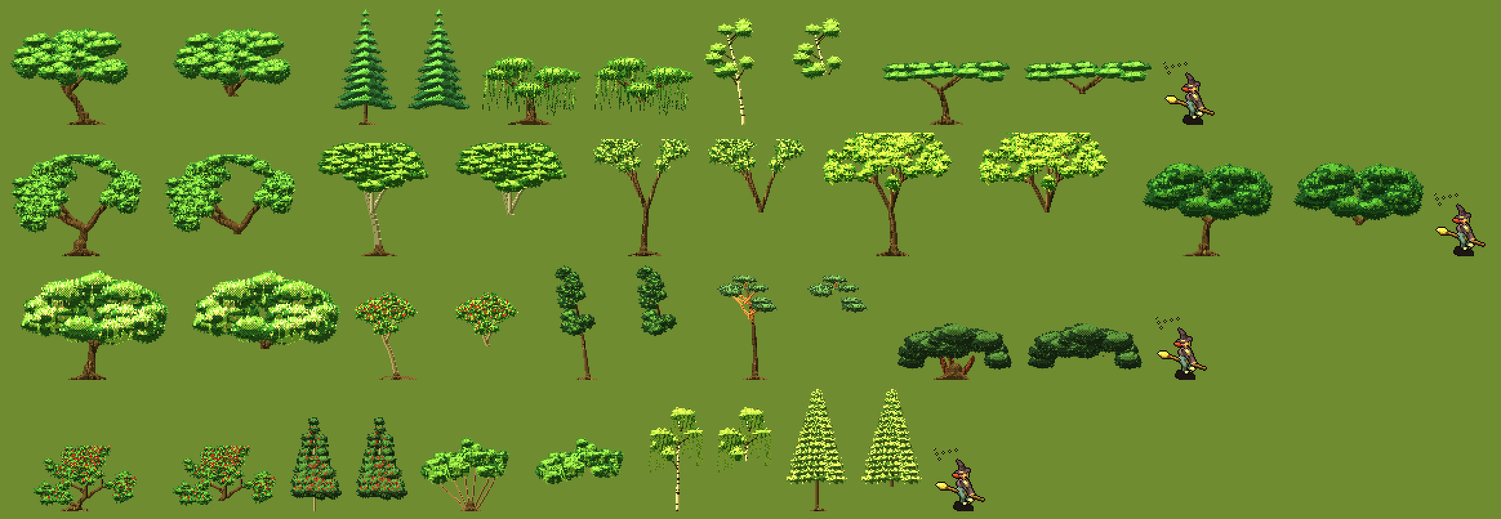
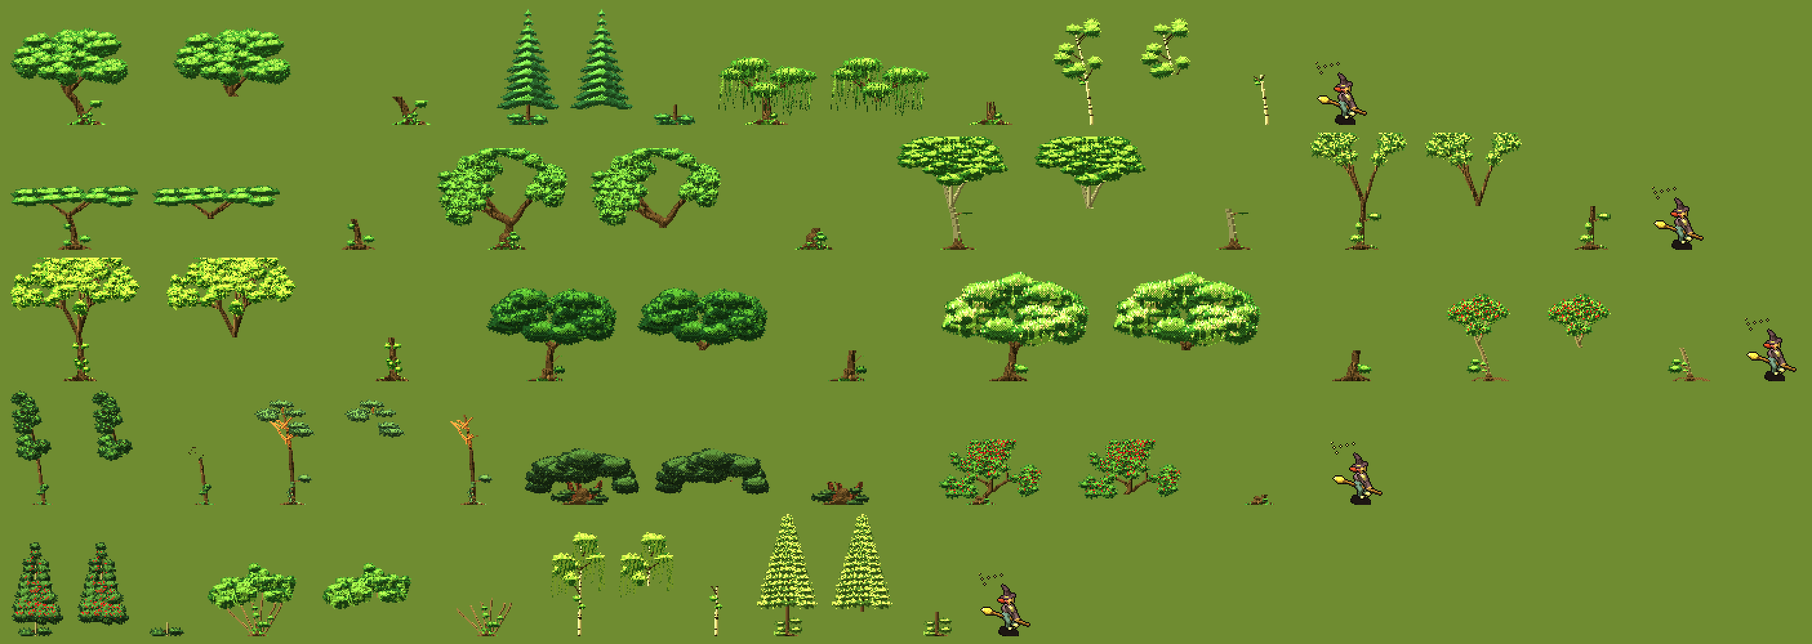
Trees: life below the crown (ivy, moss, sprigs, low boughs, skirts)
Every species' bottom half now carries some foliage of its own, so ground
mode isn't a forest of bare poles: ivy up the trunk, moss at its foot,
epicormic sprigs (oak, lime), low side boughs with a leaf clump, and a skirt
of drooping lower boughs on yew, holly and the conifers. Saplings are
leafier; dead trees keep only ivy and moss. It is drawn after the tree, only
on empty or wooden pixels a margin below the crown line, so the top half is
exactly as before; splitTree puts it in the bottom half.

The art check verifies every species' bottom half has leaves, saplings
more, the canopy unchanged, and no wall of leaves at the witch's eye height.
The species sheet adds each bottom half alone; the lab's Trees panel adds a
row of trunks as ground mode shows them.

Claude-Session: https://claude.ai/code/session_01FVGKHvaavDn5xGsWtRTBaz

diff --git a/tools/art-lab/dist/witch-art-lab.html b/tools/art-lab/dist/witch-art-lab.html
@@ -957,6 +957,72 @@ function larchTree(r, st, s) {
   return trim(sp, bx, H * .8);
 }
 
+// Life on the trunk, below the crown: what the bottom half (ground mode) carries besides bare wood. Ivy
+// climbing the trunk, moss at its foot, epicormic sprigs (little leaf clumps hugging the bark), low side
+// boughs with a leaf clump, and a skirt of drooping lower boughs (yew, holly, the conifers). It is drawn
+// after the tree, only onto empty or wooden pixels at least a margin below the crown line, so the canopy
+// (the top half) is untouched; the pixels it adds are listed in sp.low, and splitTree puts them in the
+// bottom half. Saplings and young trees are leafier, almost to the ground; dead trees keep only ivy and moss.
+const LOW_MARGIN = 6;
+function lowLife(t, r, st, s, P) {
+  const { sp, crownY } = t, W = sp.w, H = sp.h, low = sp.low || (sp.low = new Uint8Array(W * H));
+  const y0 = Math.ceil(crownY + LOW_MARGIN * s); if (y0 >= H - 2) return t;
+  const rel = s / (st.treeSize * 2 / (st.pixel || 2)), youth = Math.max(0, Math.min(1, (1 - rel) / .5)), bare = !!st.treeBare;
+  const runs = y => { const out = []; let a = -1; for (let x = 0; x <= W; x++) { const w = x < W && WOOD.has(sp.m[y * W + x]); if (w && a < 0) a = x; if (!w && a >= 0) { out.push([a, x - 1]); a = -1; } } return out; };
+  const near = (rs, x) => rs.reduce((b, q) => !b || Math.abs((q[0] + q[1]) / 2 - x) < Math.abs((b[0] + b[1]) / 2 - x) ? q : b, null);
+  // draws f, then keeps only what landed on empty or wooden pixels below the margin, and lists it
+  const draw = f => {
+    const m0 = sp.m.slice(), n0 = sp.n.slice(); f();
+    for (let i = 0; i < m0.length; i++) if (sp.m[i] !== m0[i]) {
+      const y = (i / W) | 0;
+      if (y < y0 || (m0[i] && !WOOD.has(m0[i]) && !low[i])) { sp.m[i] = m0[i]; sp.n[i * 3] = n0[i * 3]; sp.n[i * 3 + 1] = n0[i * 3 + 1]; sp.n[i * 3 + 2] = n0[i * 3 + 2]; }
+      else low[i] = 1;
+    }
+  };
+  const spot = () => { for (let k = 0; k < 8; k++) { const y = Math.round(uni(r, y0, H - 3)), rs = runs(y); if (rs.length) { const q = pick(r, rs), side = r() < .5 ? -1 : 1; return { x: side < 0 ? q[0] : q[1], y, side }; } } return null; };
+  const leafy = bare ? 0 : 1, gy = H - 1;
+  let cx0 = W, cx1 = 0; for (let i = 0; i < y0 * W; i++) if (sp.m[i] && !WOOD.has(sp.m[i])) { const x = i % W; cx0 = Math.min(cx0, x); cx1 = Math.max(cx1, x); }
+  const reach = Math.max(6 * s, (cx1 - cx0) * .22); // low boughs and skirts stay well inside the crown's spread: no wall of leaves
+  // moss: the foot of the trunk and the roots go green on their upper, shaded side
+  if (P.moss) draw(() => { for (let y = Math.max(y0, Math.round(H - (H - y0) * .4)); y < H; y++) for (let x = 0; x < W; x++) { const i = y * W + x; if (!WOOD.has(sp.m[i])) continue; const up = y > 0 && !sp.m[i - W], v = vnoise(x / 2.5, y / 2.5, 41); if (v > 1 - P.moss * (.35 + .4 * (y - y0) / (H - y0)) || (up && hash2(x, y, 9) < P.moss * .6)) sp.m[i] = hash2(x, y, 5) < .3 ? M.LEAF2 : M.LEAF; } });
+  // ivy: a stem winding up the trunk, dark glossy leaves either side
+  if (P.ivy && r() < .35 + P.ivy * .6) draw(() => {
+    let x = W / 2; const top = gy - (gy - y0) * uni(r, .45, .95) * Math.min(1, P.ivy + .3), ph = r() * 6;
+    for (let y = gy - 1; y > top; y--) {
+      const q = near(runs(y), x); if (!q) break;
+      x = q[0] + (q[1] - q[0]) * (.5 + .48 * Math.sin(y * .22 + ph));
+      sp.px(x, y, M.LEAF3, 0, 0, 1);
+      if (hash2(Math.round(x), y, 13) < .45) { const d = hash2(y, 3, 2) < .5 ? -1 : 1; sp.px(x + d, y, M.LEAF, d * .5, -.3, .8); sp.px(x + d * 2, y, M.LEAF3, d * .6, 0, .8); sp.px(x + d, y - 1, hash2(x, y, 4) < .4 ? M.LEAF2 : M.LEAF3, 0, -.6, .8); }
+    }
+  });
+  // epicormic sprigs: little clumps on the bark
+  const nSprig = Math.round(P.sprigs * leafy * (5 + 8 * youth) * (H - y0) / (40 * s));
+  for (let k = 0; k < nSprig; k++) { const p = spot(); if (!p) break; const rr = uni(r, 3, 5.5) * s; draw(() => clump(sp, [p.x + p.side * rr * .6, p.y], rr, rr * .75, st, r, { mat: r() < .4 ? M.LEAF3 : M.LEAF, ragged: .8 })); }
+  // low boughs: a short side branch reaching out and up, a leaf clump at its end
+  const nBough = Math.round(P.boughs * leafy * (3 + 4 * youth) * (H - y0) / (45 * s) + (r() < P.boughs * leafy ? 1 : 0));
+  for (let k = 0; k < nBough; k++) { const p = spot(); if (!p) break; draw(() => { const b = bough(sp, [p.x, p.y], -Math.PI / 2 + p.side * uni(r, .9, 1.35), Math.min(reach, uni(r, 10, 20) * s), 2 * s, 1, st, r, { group: 12, mat: M.TRUNK }); const rr = uni(r, 6, 9.5) * s; clump(sp, add(b.end, [0, -1 * s]), rr, rr * .65, st, r, { mat: r() < .4 ? M.LEAF3 : M.LEAF }); }); }
+  // a skirt: drooping lower boughs near the ground, with gaps between them
+  if (P.skirt && leafy) {
+    const nS = Math.round(3 + P.skirt * 5 + youth * 3);
+    for (let k = 0; k < nS; k++) draw(() => {
+      const y = Math.round(uni(r, Math.max(y0, H - (H - y0) * .8), H - 4 * s)), q = near(runs(y), W / 2); if (!q) return;
+      const side = k % 2 ? 1 : -1, x = side < 0 ? q[0] : q[1], L = Math.min(reach * 1.3, uni(r, 14, 24) * s * (.6 + P.skirt * .5));
+      const b = bough(sp, [x, y], -Math.PI / 2 + side * uni(r, 1.6, 1.95), L, 1.6 * s, 1, st, r, { group: 12, mat: M.BARKD });
+      clump(sp, lerp2([x, y], b.end, .6), L * .5, 3.5 * s, st, r, { mat: r() < .5 ? M.LEAF3 : M.LEAF, ragged: 1.2 });
+    });
+  }
+  return t;
+}
+// Each species' life below the crown (0 to 1 each): ivy, moss, epicormic sprigs, low boughs, skirt.
+const LOW = {
+  broad: { ivy: .4, moss: .6, sprigs: .5, boughs: .3 }, fir: { moss: .3, skirt: 1 }, willow: { moss: .5, sprigs: .3 }, birch: { sprigs: .3, boughs: .2 }, flat: { ivy: .3, sprigs: .4, boughs: .3 },
+  oak: { ivy: .5, moss: .5, sprigs: .9, boughs: .4 }, beech: { moss: .3, boughs: .3 }, ash: { ivy: .6, sprigs: .3, boughs: .2 }, lime: { moss: .3, sprigs: 1 },
+  sycamore: { ivy: .4, moss: .4, boughs: .4 }, chestnut: { sprigs: .3, boughs: .5 }, rowan: { sprigs: .3, boughs: .3 }, alder: { moss: .6, sprigs: .4 },
+  pine: { ivy: .3, moss: .3, boughs: .15 }, yew: { moss: .4, skirt: 1 }, hawthorn: { moss: .5, sprigs: .6, boughs: .5 }, holly: { skirt: .7 }, hazel: { moss: .4, sprigs: .8 },
+  weepingBirch: { sprigs: .3 }, larch: { skirt: .5, boughs: .2 },
+};
+const withLowLife = (fn, P) => (r, st, s) => lowLife(fn(r, st, s), r, st, s, P);
+
 // Every tree kind an area can name, with its look: hue (added to the area's leaf hue), saturation and
 // value of the leaves, the trunk's colour, how it grows across the height classes (wide, narrow, small,
 // willow, normal), and what it is. The first six are the original kinds.
@@ -982,7 +1048,8 @@ const TREE_SPECIES = {
   weepingBirch: { fn: weepingBirchTree, name: "weeping birch", grow: "narrow", hue: -.04, val: 1.12 },
   larch: { fn: larchTree, name: "larch", grow: "narrow", hue: -.07, sat: .8, val: 1.15 },
 };
-const SPECIES_BY_FN = new Map(Object.entries(TREE_SPECIES).map(([id, S]) => [S.fn, { id, ...S }]));
+for (const [id, S] of Object.entries(TREE_SPECIES)) { S.bare = S.fn; S.fn = withLowLife(S.fn, LOW[id] || {}); } // every species' trees carry their life below the crown; S.bare draws without it
+const SPECIES_BY_FN = new Map(Object.entries(TREE_SPECIES).flatMap(([id, S]) => [[S.fn, { id, ...S }], [S.bare, { id, ...S }]]));
 const treeSpecies = type => TREE_SPECIES[type] || TREE_SPECIES.broad;
 // What a species' canopy looks like from the treetops, as numbers: its crown (the top half of a mature
 // tree, averaged over a few seeds): fill (how much of the crown's box is leaves), dark and light (the shares
@@ -1024,11 +1091,11 @@ function treeColours(r, st, type) {
 }
 // The trunk was drawn with its roots and bark; this stays for callers of the old API.
 function finishTree(t) { return t; }
-function splitTree(t) { // bottom = wood below the crown line; top = everything else
+function splitTree(t) { // bottom = wood below the crown line and the life on it; top = everything else
   const { sp, crownY } = t, top = new Sprite(sp.w, sp.h), bot = new Sprite(sp.w, sp.h);
   for (let y = 0; y < sp.h; y++) for (let x = 0; x < sp.w; x++) {
     const i = y * sp.w + x, m = sp.m[i]; if (!m) continue;
-    const dst = WOOD.has(m) && y >= crownY ? bot : top;
+    const dst = (WOOD.has(m) && y >= crownY) || sp.low?.[i] ? bot : top; // low: the foliage lowLife put below the crown
     dst.put(x, y, m, sp.n[i * 3], sp.n[i * 3 + 1], sp.n[i * 3 + 2]);
   }
   return { top, bot };
@@ -4748,12 +4815,12 @@ function renderTrees() {
     if (info && y) info.textContent = `${y.feel} Pattern ${y.pattern}${y.along ? " along " + y.along : ""}, density ${pct(y.density)}, clump ${pct(y.clump)}, ${y.glades.count} glade${y.glades.count === 1 ? "" : "s"}${y.glades.count ? ` (${y.glades.size[0]}-${y.glades.size[1]} m)` : ""}, undergrowth ${pct(y.undergrowth)}${y.lean.amount ? `, leaning ${pct(y.lean.amount)} toward ${y.lean.dir}°` : ""}; terrain: ${y.terrain.join(", ")}; ` +
       (y.heightMix ? "height mix " + Object.entries(y.heightMix).map(([k, v]) => k + " " + pct(v)).join(", ") : "its big objects aren't trees") + "; decorations " + pct(y.decor.rate) + ": " + Object.entries(y.decor).filter(([k, v]) => k !== "rate" && v).map(([k, v]) => k + " " + pct(v)).join(", ") + ".";
     const st = current, studio = { ...st, ambient: .55, ambientHue: .15, moon: .9, moonHue: .15, shafts: 0 }, gap = 6;
-    // the area's trees (or, picked, one species at five sizes), whole from the side, then their crowns alone as treetop mode shows them
+    // the area's trees (or, picked, one species at five sizes), whole from the side, then their crowns alone as treetop mode shows them, then their trunks alone (with the life on them) as ground mode shows them
     const wit = bake(witchSprite(st), witchColours(st), st, st.cOutline), K = 2 / (st.pixel || 2);
-    let whole, tops;
-    if (kind && kind.value) { const S = TREE_SPECIES[kind.value], ts = { ...st, leafHue: AREA_BY_ID[sel.value].leaf }; const trees = [.55, .8, 1, 1.4, 1.9].map((k2, i) => { const r = rng(17 + i * 31), t = S.fn(r, ts, st.treeSize * K * k2), c = treeColours(rng(3 + i), ts, S.fn); return { whole: bake(t.sp, c, st, "none"), top: bake(splitTree(t).top, c, st, "none") }; }); whole = trees.map(t => t.whole); tops = trees.map(t => t.top); }
-    else { const vs = areaTreeVariants(sel.value, st); whole = vs.map(v => v.whole); tops = vs.map(v => v.top); }
-    const rows = [[...whole, wit], tops].filter(r => r.length), rh = rows.map(r => Math.max(...r.map(x => x.h)) + gap), w = Math.max(...rows.map(r => r.reduce((a, x) => a + x.w + gap, gap))), h = rh.reduce((a, v) => a + v, gap), tgt = makeTarget(w, h);
+    let whole, tops, bots;
+    if (kind && kind.value) { const S = TREE_SPECIES[kind.value], ts = { ...st, leafHue: AREA_BY_ID[sel.value].leaf }; const trees = [.55, .8, 1, 1.4, 1.9].map((k2, i) => { const r = rng(17 + i * 31), t = S.fn(r, ts, st.treeSize * K * k2), c = treeColours(rng(3 + i), ts, S.fn); return { whole: bake(t.sp, c, st, "none"), top: bake(splitTree(t).top, c, st, "none"), bot: bake(splitTree(t).bot, c, st, "none") }; }); whole = trees.map(t => t.whole); tops = trees.map(t => t.top); bots = trees.map(t => t.bot); }
+    else { const vs = areaTreeVariants(sel.value, st); whole = vs.map(v => v.whole); tops = vs.map(v => v.top); bots = vs.map(v => v.bot); }
+    const rows = [[...whole, wit], tops, bots].filter(r => r.length), rh = rows.map(r => Math.max(...r.map(x => x.h)) + gap), w = Math.max(...rows.map(r => r.reduce((a, x) => a + x.w + gap, gap))), h = rh.reduce((a, v) => a + v, gap), tgt = makeTarget(w, h);
     tgt.a.fillStyle = `rgb(${hsv2rgb(st.groundHue, .4, st.groundVal)})`; tgt.a.fillRect(0, 0, w, h); tgt.n.fillStyle = "rgb(128,75,240)"; tgt.n.fillRect(0, 0, w, h);
     let yy = gap; rows.forEach((r, i) => { let x = gap; yy += rh[i] - gap; for (const s2 of r) { tgt.a.drawImage(s2.A, x, yy - s2.h); tgt.n.drawImage(s2.N, x, yy - s2.h); x += s2.w + gap; } yy += gap; });
     if (info && !(kind && kind.value)) { const sp2 = (AREA_BY_ID[sel.value].big || []).filter(([k2]) => k2 === "tree").map(([, o]) => TREE_SPECIES[o.type]?.name + (o.minor ? " (a few)" : "")); if (sp2.length) info.textContent += " Trees: " + sp2.join(", ") + "."; }

diff --git a/art/trees.js b/art/trees.js
@@ -390,6 +390,72 @@ export function larchTree(r, st, s) {
   return trim(sp, bx, H * .8);
 }
 
+// Life on the trunk, below the crown: what the bottom half (ground mode) carries besides bare wood. Ivy
+// climbing the trunk, moss at its foot, epicormic sprigs (little leaf clumps hugging the bark), low side
+// boughs with a leaf clump, and a skirt of drooping lower boughs (yew, holly, the conifers). It is drawn
+// after the tree, only onto empty or wooden pixels at least a margin below the crown line, so the canopy
+// (the top half) is untouched; the pixels it adds are listed in sp.low, and splitTree puts them in the
+// bottom half. Saplings and young trees are leafier, almost to the ground; dead trees keep only ivy and moss.
+const LOW_MARGIN = 6;
+function lowLife(t, r, st, s, P) {
+  const { sp, crownY } = t, W = sp.w, H = sp.h, low = sp.low || (sp.low = new Uint8Array(W * H));
+  const y0 = Math.ceil(crownY + LOW_MARGIN * s); if (y0 >= H - 2) return t;
+  const rel = s / (st.treeSize * 2 / (st.pixel || 2)), youth = Math.max(0, Math.min(1, (1 - rel) / .5)), bare = !!st.treeBare;
+  const runs = y => { const out = []; let a = -1; for (let x = 0; x <= W; x++) { const w = x < W && WOOD.has(sp.m[y * W + x]); if (w && a < 0) a = x; if (!w && a >= 0) { out.push([a, x - 1]); a = -1; } } return out; };
+  const near = (rs, x) => rs.reduce((b, q) => !b || Math.abs((q[0] + q[1]) / 2 - x) < Math.abs((b[0] + b[1]) / 2 - x) ? q : b, null);
+  // draws f, then keeps only what landed on empty or wooden pixels below the margin, and lists it
+  const draw = f => {
+    const m0 = sp.m.slice(), n0 = sp.n.slice(); f();
+    for (let i = 0; i < m0.length; i++) if (sp.m[i] !== m0[i]) {
+      const y = (i / W) | 0;
+      if (y < y0 || (m0[i] && !WOOD.has(m0[i]) && !low[i])) { sp.m[i] = m0[i]; sp.n[i * 3] = n0[i * 3]; sp.n[i * 3 + 1] = n0[i * 3 + 1]; sp.n[i * 3 + 2] = n0[i * 3 + 2]; }
+      else low[i] = 1;
+    }
+  };
+  const spot = () => { for (let k = 0; k < 8; k++) { const y = Math.round(uni(r, y0, H - 3)), rs = runs(y); if (rs.length) { const q = pick(r, rs), side = r() < .5 ? -1 : 1; return { x: side < 0 ? q[0] : q[1], y, side }; } } return null; };
+  const leafy = bare ? 0 : 1, gy = H - 1;
+  let cx0 = W, cx1 = 0; for (let i = 0; i < y0 * W; i++) if (sp.m[i] && !WOOD.has(sp.m[i])) { const x = i % W; cx0 = Math.min(cx0, x); cx1 = Math.max(cx1, x); }
+  const reach = Math.max(6 * s, (cx1 - cx0) * .22); // low boughs and skirts stay well inside the crown's spread: no wall of leaves
+  // moss: the foot of the trunk and the roots go green on their upper, shaded side
+  if (P.moss) draw(() => { for (let y = Math.max(y0, Math.round(H - (H - y0) * .4)); y < H; y++) for (let x = 0; x < W; x++) { const i = y * W + x; if (!WOOD.has(sp.m[i])) continue; const up = y > 0 && !sp.m[i - W], v = vnoise(x / 2.5, y / 2.5, 41); if (v > 1 - P.moss * (.35 + .4 * (y - y0) / (H - y0)) || (up && hash2(x, y, 9) < P.moss * .6)) sp.m[i] = hash2(x, y, 5) < .3 ? M.LEAF2 : M.LEAF; } });
+  // ivy: a stem winding up the trunk, dark glossy leaves either side
+  if (P.ivy && r() < .35 + P.ivy * .6) draw(() => {
+    let x = W / 2; const top = gy - (gy - y0) * uni(r, .45, .95) * Math.min(1, P.ivy + .3), ph = r() * 6;
+    for (let y = gy - 1; y > top; y--) {
+      const q = near(runs(y), x); if (!q) break;
+      x = q[0] + (q[1] - q[0]) * (.5 + .48 * Math.sin(y * .22 + ph));
+      sp.px(x, y, M.LEAF3, 0, 0, 1);
+      if (hash2(Math.round(x), y, 13) < .45) { const d = hash2(y, 3, 2) < .5 ? -1 : 1; sp.px(x + d, y, M.LEAF, d * .5, -.3, .8); sp.px(x + d * 2, y, M.LEAF3, d * .6, 0, .8); sp.px(x + d, y - 1, hash2(x, y, 4) < .4 ? M.LEAF2 : M.LEAF3, 0, -.6, .8); }
+    }
+  });
+  // epicormic sprigs: little clumps on the bark
+  const nSprig = Math.round(P.sprigs * leafy * (5 + 8 * youth) * (H - y0) / (40 * s));
+  for (let k = 0; k < nSprig; k++) { const p = spot(); if (!p) break; const rr = uni(r, 3, 5.5) * s; draw(() => clump(sp, [p.x + p.side * rr * .6, p.y], rr, rr * .75, st, r, { mat: r() < .4 ? M.LEAF3 : M.LEAF, ragged: .8 })); }
+  // low boughs: a short side branch reaching out and up, a leaf clump at its end
+  const nBough = Math.round(P.boughs * leafy * (3 + 4 * youth) * (H - y0) / (45 * s) + (r() < P.boughs * leafy ? 1 : 0));
+  for (let k = 0; k < nBough; k++) { const p = spot(); if (!p) break; draw(() => { const b = bough(sp, [p.x, p.y], -Math.PI / 2 + p.side * uni(r, .9, 1.35), Math.min(reach, uni(r, 10, 20) * s), 2 * s, 1, st, r, { group: 12, mat: M.TRUNK }); const rr = uni(r, 6, 9.5) * s; clump(sp, add(b.end, [0, -1 * s]), rr, rr * .65, st, r, { mat: r() < .4 ? M.LEAF3 : M.LEAF }); }); }
+  // a skirt: drooping lower boughs near the ground, with gaps between them
+  if (P.skirt && leafy) {
+    const nS = Math.round(3 + P.skirt * 5 + youth * 3);
+    for (let k = 0; k < nS; k++) draw(() => {
+      const y = Math.round(uni(r, Math.max(y0, H - (H - y0) * .8), H - 4 * s)), q = near(runs(y), W / 2); if (!q) return;
+      const side = k % 2 ? 1 : -1, x = side < 0 ? q[0] : q[1], L = Math.min(reach * 1.3, uni(r, 14, 24) * s * (.6 + P.skirt * .5));
+      const b = bough(sp, [x, y], -Math.PI / 2 + side * uni(r, 1.6, 1.95), L, 1.6 * s, 1, st, r, { group: 12, mat: M.BARKD });
+      clump(sp, lerp2([x, y], b.end, .6), L * .5, 3.5 * s, st, r, { mat: r() < .5 ? M.LEAF3 : M.LEAF, ragged: 1.2 });
+    });
+  }
+  return t;
+}
+// Each species' life below the crown (0 to 1 each): ivy, moss, epicormic sprigs, low boughs, skirt.
+const LOW = {
+  broad: { ivy: .4, moss: .6, sprigs: .5, boughs: .3 }, fir: { moss: .3, skirt: 1 }, willow: { moss: .5, sprigs: .3 }, birch: { sprigs: .3, boughs: .2 }, flat: { ivy: .3, sprigs: .4, boughs: .3 },
+  oak: { ivy: .5, moss: .5, sprigs: .9, boughs: .4 }, beech: { moss: .3, boughs: .3 }, ash: { ivy: .6, sprigs: .3, boughs: .2 }, lime: { moss: .3, sprigs: 1 },
+  sycamore: { ivy: .4, moss: .4, boughs: .4 }, chestnut: { sprigs: .3, boughs: .5 }, rowan: { sprigs: .3, boughs: .3 }, alder: { moss: .6, sprigs: .4 },
+  pine: { ivy: .3, moss: .3, boughs: .15 }, yew: { moss: .4, skirt: 1 }, hawthorn: { moss: .5, sprigs: .6, boughs: .5 }, holly: { skirt: .7 }, hazel: { moss: .4, sprigs: .8 },
+  weepingBirch: { sprigs: .3 }, larch: { skirt: .5, boughs: .2 },
+};
+const withLowLife = (fn, P) => (r, st, s) => lowLife(fn(r, st, s), r, st, s, P);
+
 // Every tree kind an area can name, with its look: hue (added to the area's leaf hue), saturation and
 // value of the leaves, the trunk's colour, how it grows across the height classes (wide, narrow, small,
 // willow, normal), and what it is. The first six are the original kinds.
@@ -415,7 +481,8 @@ export const TREE_SPECIES = {
   weepingBirch: { fn: weepingBirchTree, name: "weeping birch", grow: "narrow", hue: -.04, val: 1.12 },
   larch: { fn: larchTree, name: "larch", grow: "narrow", hue: -.07, sat: .8, val: 1.15 },
 };
-const SPECIES_BY_FN = new Map(Object.entries(TREE_SPECIES).map(([id, S]) => [S.fn, { id, ...S }]));
+for (const [id, S] of Object.entries(TREE_SPECIES)) { S.bare = S.fn; S.fn = withLowLife(S.fn, LOW[id] || {}); } // every species' trees carry their life below the crown; S.bare draws without it
+const SPECIES_BY_FN = new Map(Object.entries(TREE_SPECIES).flatMap(([id, S]) => [[S.fn, { id, ...S }], [S.bare, { id, ...S }]]));
 export const treeSpecies = type => TREE_SPECIES[type] || TREE_SPECIES.broad;
 // What a species' canopy looks like from the treetops, as numbers: its crown (the top half of a mature
 // tree, averaged over a few seeds): fill (how much of the crown's box is leaves), dark and light (the shares
@@ -457,11 +524,11 @@ export function treeColours(r, st, type) {
 }
 // The trunk was drawn with its roots and bark; this stays for callers of the old API.
 export function finishTree(t) { return t; }
-export function splitTree(t) { // bottom = wood below the crown line; top = everything else
+export function splitTree(t) { // bottom = wood below the crown line and the life on it; top = everything else
   const { sp, crownY } = t, top = new Sprite(sp.w, sp.h), bot = new Sprite(sp.w, sp.h);
   for (let y = 0; y < sp.h; y++) for (let x = 0; x < sp.w; x++) {
     const i = y * sp.w + x, m = sp.m[i]; if (!m) continue;
-    const dst = WOOD.has(m) && y >= crownY ? bot : top;
+    const dst = (WOOD.has(m) && y >= crownY) || sp.low?.[i] ? bot : top; // low: the foliage lowLife put below the crown
     dst.put(x, y, m, sp.n[i * 3], sp.n[i * 3 + 1], sp.n[i * 3 + 2]);
   }
   return { top, bot };

diff --git a/tools/art-lab/witch-art-lab.html b/tools/art-lab/witch-art-lab.html
@@ -465,12 +465,12 @@ function renderTrees() {
     if (info && y) info.textContent = `${y.feel} Pattern ${y.pattern}${y.along ? " along " + y.along : ""}, density ${pct(y.density)}, clump ${pct(y.clump)}, ${y.glades.count} glade${y.glades.count === 1 ? "" : "s"}${y.glades.count ? ` (${y.glades.size[0]}-${y.glades.size[1]} m)` : ""}, undergrowth ${pct(y.undergrowth)}${y.lean.amount ? `, leaning ${pct(y.lean.amount)} toward ${y.lean.dir}°` : ""}; terrain: ${y.terrain.join(", ")}; ` +
       (y.heightMix ? "height mix " + Object.entries(y.heightMix).map(([k, v]) => k + " " + pct(v)).join(", ") : "its big objects aren't trees") + "; decorations " + pct(y.decor.rate) + ": " + Object.entries(y.decor).filter(([k, v]) => k !== "rate" && v).map(([k, v]) => k + " " + pct(v)).join(", ") + ".";
     const st = current, studio = { ...st, ambient: .55, ambientHue: .15, moon: .9, moonHue: .15, shafts: 0 }, gap = 6;
-    // the area's trees (or, picked, one species at five sizes), whole from the side, then their crowns alone as treetop mode shows them
+    // the area's trees (or, picked, one species at five sizes), whole from the side, then their crowns alone as treetop mode shows them, then their trunks alone (with the life on them) as ground mode shows them
     const wit = bake(witchSprite(st), witchColours(st), st, st.cOutline), K = 2 / (st.pixel || 2);
-    let whole, tops;
-    if (kind && kind.value) { const S = TREE_SPECIES[kind.value], ts = { ...st, leafHue: AREA_BY_ID[sel.value].leaf }; const trees = [.55, .8, 1, 1.4, 1.9].map((k2, i) => { const r = rng(17 + i * 31), t = S.fn(r, ts, st.treeSize * K * k2), c = treeColours(rng(3 + i), ts, S.fn); return { whole: bake(t.sp, c, st, "none"), top: bake(splitTree(t).top, c, st, "none") }; }); whole = trees.map(t => t.whole); tops = trees.map(t => t.top); }
-    else { const vs = areaTreeVariants(sel.value, st); whole = vs.map(v => v.whole); tops = vs.map(v => v.top); }
-    const rows = [[...whole, wit], tops].filter(r => r.length), rh = rows.map(r => Math.max(...r.map(x => x.h)) + gap), w = Math.max(...rows.map(r => r.reduce((a, x) => a + x.w + gap, gap))), h = rh.reduce((a, v) => a + v, gap), tgt = makeTarget(w, h);
+    let whole, tops, bots;
+    if (kind && kind.value) { const S = TREE_SPECIES[kind.value], ts = { ...st, leafHue: AREA_BY_ID[sel.value].leaf }; const trees = [.55, .8, 1, 1.4, 1.9].map((k2, i) => { const r = rng(17 + i * 31), t = S.fn(r, ts, st.treeSize * K * k2), c = treeColours(rng(3 + i), ts, S.fn); return { whole: bake(t.sp, c, st, "none"), top: bake(splitTree(t).top, c, st, "none"), bot: bake(splitTree(t).bot, c, st, "none") }; }); whole = trees.map(t => t.whole); tops = trees.map(t => t.top); bots = trees.map(t => t.bot); }
+    else { const vs = areaTreeVariants(sel.value, st); whole = vs.map(v => v.whole); tops = vs.map(v => v.top); bots = vs.map(v => v.bot); }
+    const rows = [[...whole, wit], tops, bots].filter(r => r.length), rh = rows.map(r => Math.max(...r.map(x => x.h)) + gap), w = Math.max(...rows.map(r => r.reduce((a, x) => a + x.w + gap, gap))), h = rh.reduce((a, v) => a + v, gap), tgt = makeTarget(w, h);
     tgt.a.fillStyle = `rgb(${hsv2rgb(st.groundHue, .4, st.groundVal)})`; tgt.a.fillRect(0, 0, w, h); tgt.n.fillStyle = "rgb(128,75,240)"; tgt.n.fillRect(0, 0, w, h);
     let yy = gap; rows.forEach((r, i) => { let x = gap; yy += rh[i] - gap; for (const s2 of r) { tgt.a.drawImage(s2.A, x, yy - s2.h); tgt.n.drawImage(s2.N, x, yy - s2.h); x += s2.w + gap; } yy += gap; });
     if (info && !(kind && kind.value)) { const sp2 = (AREA_BY_ID[sel.value].big || []).filter(([k2]) => k2 === "tree").map(([, o]) => TREE_SPECIES[o.type]?.name + (o.minor ? " (a few)" : "")); if (sp2.length) info.textContent += " Trees: " + sp2.join(", ") + "."; }

diff --git a/CLAUDE.md b/CLAUDE.md
@@ -27,7 +27,7 @@ Not in CI, run by builders before a FINAL: `npm run build && npm run smoke`, a h
 
 The art generator (`art/`, entry `art/generator.js`) and the Witch Art Lab (`tools/art-lab/`) have one more check, not in CI, run from the repository root before every push that touches them:
 
-- `node art/check.mjs` — builds the lab, opens the source page and the built page in headless Chromium (no script errors, a bestiary card for every species, the scene drawn), and draws every creature, tree, bush, area type, soundsystem and sigil (each non-empty, creatures and soundsystems standing on their bottom row; baby < young < adult < legend for every species, and the bigger species' adults 1.15 to 1.45 times the witch; party gear (collar, hat, shoes) shows on every species at baby, young and adult without changing its size, woken eyes glow red, partyGear is seeded and varied; only magical materials glow, and flowering areas have no glowing pixels; a soundsystem about three times the witch; every wooded area has at least 8 tree variants over at least 3 height classes, taller by class; every tree species draws, each crown differs measurably from every other's from the treetops, areas with the same layout pattern never share a main species, none is the main kind of more than two areas, and plain broadleaf is left only to the dead woods; the witch's rise, descend, fast and brake frames exist for both facings at her ordinary scale with nothing NaN; so do her on-foot poses (stand 3, land 3, takeoff 3, talk 4, placeSigil 3, liftSigil 3, sit 2), each with hand and hat-tip anchors inside the sprite, the hand above her hat reaching for the stack and down by her feet at the ground; every species has a sigil that renders as vector, as a 12 px glyph, on the ground and floating, its strokes inside the box, each level's ground rune bigger, the young's ring dotted and the adult's full (telling apart at 14 px); the treehouse is 12 to 18 m tall turned towards and away, its top and bottom halves add up to the whole, its windows glow, and its seat anchor is on the terrace; every area has a set piece, the twenty new 3D ones standing on the ground at 6 to 12 m; the modern relics (15+), the playground (6 pieces) and the sports grounds stand, their ground decals lie flat at 15 to 30 m, only the flagged ones glow and every arrangement names real pieces with one glowing touch at most; the world decorations (12 ruins in two conditions, 8 rocks, 8 freak trees) stand, ruins 4 to 14 m with a few tall enough for the treetops, tall ones split top and bottom, only the flagged ones glow, and the lake kit is whole; each of the 10 path kinds' strips repeats exactly every period (so it tiles along a spline), with an end, a Y and a T, only the magic trail glows, the railway's points, broken end and crossing are drawn, the 3D path pieces stand, and every area suits a path kind; the leash stack stands newest at the bottom, trails behind her flight and settles).
+- `node art/check.mjs` — builds the lab, opens the source page and the built page in headless Chromium (no script errors, a bestiary card for every species, the scene drawn), and draws every creature, tree, bush, area type, soundsystem and sigil (each non-empty, creatures and soundsystems standing on their bottom row; baby < young < adult < legend for every species, and the bigger species' adults 1.15 to 1.45 times the witch; party gear (collar, hat, shoes) shows on every species at baby, young and adult without changing its size, woken eyes glow red, partyGear is seeded and varied; only magical materials glow, and flowering areas have no glowing pixels; a soundsystem about three times the witch; every wooded area has at least 8 tree variants over at least 3 height classes, taller by class; every tree species draws, each crown differs measurably from every other's from the treetops, areas with the same layout pattern never share a main species, none is the main kind of more than two areas, and plain broadleaf is left only to the dead woods; every species' bottom half carries some life (ivy, moss, sprigs, low boughs, skirts), saplings more, without changing its top half, and no wall of leaves at the witch's eye height; the witch's rise, descend, fast and brake frames exist for both facings at her ordinary scale with nothing NaN; so do her on-foot poses (stand 3, land 3, takeoff 3, talk 4, placeSigil 3, liftSigil 3, sit 2), each with hand and hat-tip anchors inside the sprite, the hand above her hat reaching for the stack and down by her feet at the ground; every species has a sigil that renders as vector, as a 12 px glyph, on the ground and floating, its strokes inside the box, each level's ground rune bigger, the young's ring dotted and the adult's full (telling apart at 14 px); the treehouse is 12 to 18 m tall turned towards and away, its top and bottom halves add up to the whole, its windows glow, and its seat anchor is on the terrace; every area has a set piece, the twenty new 3D ones standing on the ground at 6 to 12 m; the modern relics (15+), the playground (6 pieces) and the sports grounds stand, their ground decals lie flat at 15 to 30 m, only the flagged ones glow and every arrangement names real pieces with one glowing touch at most; the world decorations (12 ruins in two conditions, 8 rocks, 8 freak trees) stand, ruins 4 to 14 m with a few tall enough for the treetops, tall ones split top and bottom, only the flagged ones glow, and the lake kit is whole; each of the 10 path kinds' strips repeats exactly every period (so it tiles along a spline), with an end, a Y and a T, only the magic trail glows, the railway's points, broken end and crossing are drawn, the 3D path pieces stand, and every area suits a path kind; the leash stack stands newest at the bottom, trails behind her flight and settles).
 
 Related commands: `node tools/art-lab/build.mjs` writes the self-contained lab page to `tools/art-lab/dist/witch-art-lab.html` (the one to publish); `node art/export.mjs [style.json] [out dir]` exports every asset as albedo and normal-map PNGs with `manifest.json` (default `art/out/`, not committed); `node art/preview.mjs animals|trees|treeheights|areas|sets|lights|soundsystems|sigils|witch|home|relics|grounds|decor|lake|paths|pathpieces|species|canopy <list> <png> [scale]` renders lit preview sheets. They need Playwright's Chromium (in cloud sessions, under `/opt/pw-browsers`).
 
@@ -47,5 +47,5 @@ Literal, stable names for the parts of the game, as Ed and the builders agree th
 - **Tilt-shift**: the post-process blur toward the top and bottom of the screen that makes the forest look like a miniature.
 - **Tuning file**: `config/tuning.json`, the numbers Ed edits (speeds, camera, density, glow, pixel size, creatures, bloom, tilt-shift).
 - **Style file**: `config/style.json`, a style saved in the Witch Art Lab; every sprite is drawn from it.
-- **Top half / bottom half**: a tree's crown and its trunk, drawn as two sprites; tops show in treetop mode only.
+- **Top half / bottom half**: a tree's crown and its trunk, drawn as two sprites; tops show in treetop mode only. The bottom half also carries the life below the crown (ivy, moss, epicormic sprigs, low boughs, a skirt on yew, holly and the conifers), so ground mode isn't a forest of bare poles.
 - **Debug overlay**: the panel toggled by `~` or a three-finger tap: frame rate, seed, area type, mode.

diff --git a/art/README.md b/art/README.md
@@ -59,7 +59,7 @@ Every asset is a **baked sprite**: `{ A, N, NF, w, h }`.
 | `AREAS`, `AREA_BY_ID` | the 30 area types in Ed's columns: `floor`, `wall`, `small`, `big`, `set`, `creature` (`text` keeps the words from DESIGN.md) |
 | `areaAssets(areaId, style, { K, makeCanvas })` | everything one area type needs, baked: `{ def, floor, walls, small, big, setPiece }`; `floor` is a 64 × 48 tile to repeat over the ground, the rest are props `{ sp: { A, N, NF, w, h }, kind, text }` anchored at `(w / 2, h)` |
 | `NEW_SET_PIECES`, `SET_PIECE_KINDS` | the set pieces built in 3D (setpieces.js) for the twenty areas that had none, each area's landmark at 6 to 12 m: `{ areaId: [kind, description, size] }`. Their `setPiece` also has `metres: { width, height }`. Moor: a sleeping giant of moss; fern forest: tree ferns round a stone basin; muddy forest: a sunken rowing boat; tangly forest: a bramble-wrapped wagon; wispy forest: a beehive tree (glowing bees); hazel forest: a fairy ring (one stone's rune glows); twiggy forest: a charcoal burner's hut (embers glow); ancient: a root arch over a rune stone (glowing); Norway: a turf-roofed log hut; alder forest: a heron rookery; meadow: a sundial; berry thicket: a bear's den; wetland: a stilt hut; bog: a carved post shrine (will-o'-wisps); deadwood: a raven tree with a hanging cage; grassland: a barrow; heath: a cairn with a cold beacon; old pinewood: a stump throne; bluebell glade: a beech with a rope swing (glowworms); honeysuckle tangle: a bower. The flowering areas' (meadow, heath, berry thicket) have nothing glowing |
-| `TREE_SPECIES`, `treeSpecies(type)`, `crownStats(type, style)` | the tree kinds an area can name (trees.js): the original six (gnarled broadleaf, spruce, willow, silver birch, field maple, tree fern) and fifteen UK species: oak, beech, ash, lime, sycamore, horse chestnut, rowan, alder, Scots pine, yew, hawthorn, holly, hazel coppice, weeping birch, larch. Each `{ fn, name, grow, hue, sat, val, trunk, upper, dot }`: its drawing, how it grows across the height classes (`wide`, `narrow`, `small`, `willow`, `normal`), its leaf colour relative to the area's, its bark, and its berries or flowers. They differ most in what treetop mode shows: clump size, density and gaps, colour and crown outline. `crownStats` measures a crown from the treetops (fill, dark and light shares, leaf grain, shape, hue, value). An area's `big` names a main species and often a `minor` one (one sapling and one mature tree of its ten variants) |
+| `TREE_SPECIES`, `treeSpecies(type)`, `crownStats(type, style)` | the tree kinds an area can name (trees.js): the original six (gnarled broadleaf, spruce, willow, silver birch, field maple, tree fern) and fifteen UK species: oak, beech, ash, lime, sycamore, horse chestnut, rowan, alder, Scots pine, yew, hawthorn, holly, hazel coppice, weeping birch, larch. Each `{ fn, name, grow, hue, sat, val, trunk, upper, dot }`: its drawing, how it grows across the height classes (`wide`, `narrow`, `small`, `willow`, `normal`), its leaf colour relative to the area's, its bark, and its berries or flowers. They differ most in what treetop mode shows: clump size, density and gaps, colour and crown outline. `crownStats` measures a crown from the treetops (fill, dark and light shares, leaf grain, shape, hue, value). An area's `big` names a main species and often a `minor` one (one sapling and one mature tree of its ten variants). Each species' `fn` also draws its life below the crown (ivy, moss, epicormic sprigs, low boughs, a skirt; leafier on saplings), which `splitTree` puts in the bottom half; `bare` draws the tree without it |
 | `areaTreeVariants(areaId, style, { K, makeCanvas, ppm })`, `TREE_HEIGHT_CLASSES` | an area's trees across a range of heights (empty when its big objects are not trees): about ten variants of its own recipe, 3 saplings (about 0.45 to 0.7 times its ordinary tree, slimmer), 4 mature (0.85 to 1.15), 2 tall (1.3 to 1.6) and 1 emergent giant (1.8 to 2.2). Firs grow tall and narrow, willows wider rather than taller, dead trees into narrow snags. Each `{ heightClass, scale, weight, whole, top, bot, crownY, metres: { height, crownBase, crownHeight, crownRadius } }`: `weight` is its share of the area's trees (the classes 25%, 50%, 20%, 5%); `top` is the crown (cut out from the treetops), `bot` the trunk below `crownY`; metres at `ART_PIXELS_PER_METRE` (16, the prototype's) |
 | `AREA_LAYOUTS`, `area.layout`, `layoutProblems(area)` | how each area lays out its vegetation, data only for the prototype's layout engine: `pattern` (`scatter`, `groves`, `rows` with `along`, `rings`, `thicket`, `lone`, `stands`, `edgeOnly`), `density`, `clump` (0 even to 1 clustered), `glades: { count, size: [min, max] m }`, `heightMix` over sapling/mature/tall/giant (null where the big objects aren't trees), `undergrowth`, `lean: { dir (degrees, 0 east, 90 up the screen), amount }`, `terrain` (stream, pools, rocky, mounds, paths, hollows, ridges), `decor: { rate, ruins, rocks, freak, lake, modern }` and a one-sentence `feel`. In the manifest's `areas`. `layoutProblems` lists what's wrong with one (empty when sound) |
 | `WALLS_BLOCK`, `SET_PIECE_CHANCE` | placement rules (Ed): wall objects don't block movement for now; a set piece appears in only some of an area type's areas (chance 0.25 to start) |
